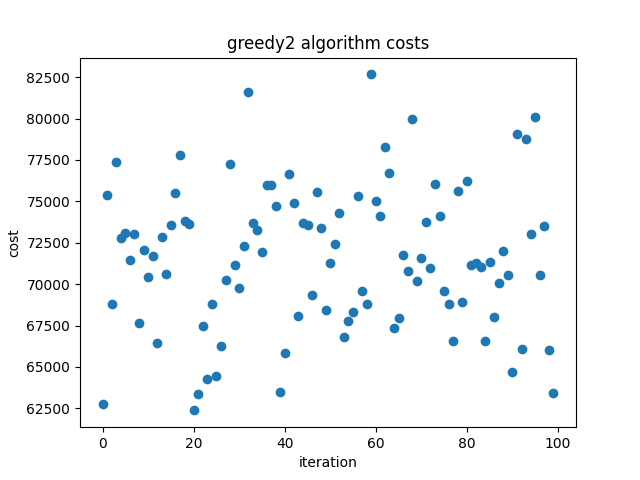
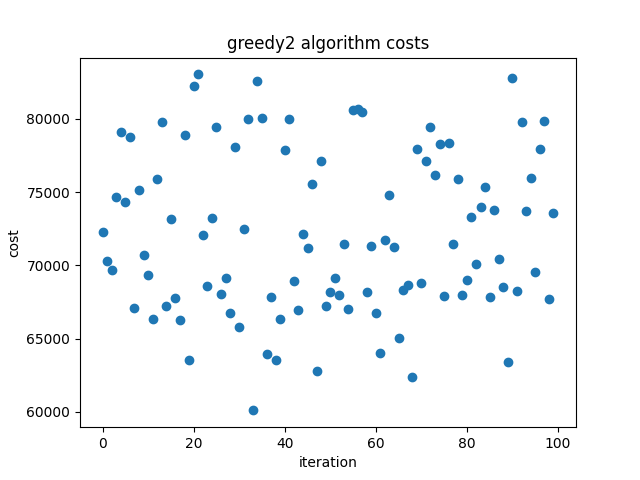
fixed vis

diff --git a/main.py b/main.py
@@ -8,8 +8,8 @@ import pickle
 import copy
 
 if __name__ == "__main__":
-    district_number = "3"
-    greedy_version = 1
+    district_number = "1"
+    greedy_version = 2
 
     battery_file = (f"data/Huizen&Batterijen/district_{district_number}/district-{district_number}_batteries.csv")
     #battery_file = (f"SmartGrid/data/Huizen&Batterijen/district_{district_number}/district-{district_number}_batteries.csv")
@@ -81,8 +81,6 @@ if __name__ == "__main__":
         print(count)
         best_grid = best_greedy.grid
         visualise_costs.visualise_costs(greedy1_costs, "greedy1")
-        # for battery in best_greedy.grid.batteries.values():
-        #     print('battery:', battery.id, battery.get_cum_output(), battery.capacity_left())
         # file_name = f"SmartGrid/data/solutions/best_greedy.pickle"
 
         # with open(file_name, 'wb') as handle:
@@ -90,48 +88,48 @@ if __name__ == "__main__":
 
     # --------------------------- greedy 2 --------------------------
     if greedy_version == 2:
+
         print('Running Greedy version 2..')
         greedy2_costs = list()
-        count = 0
         best_cost = 70000
+
         for i in range(100):
             greedy2 = greedy.Greedy(grid1)
             greedy2.run_greedy()
-            # fixed_greedy = fix_greedy.Fix_greedy(greedy2.grid)
-            # fixed_greedy.run3()
+            
             if greedy2.grid.is_valid():
-                count += 1
                 if greedy2.grid.calc_cost() < best_cost:
                     best_grid = greedy2.grid
                     best_cost = greedy2.grid.calc_cost()
             greedy2_costs.append(greedy2.grid.calc_cost())
-        print(count)
-        print(best_cost)
-        # # for battery in best_grid.batteries.values():
-        # #     print('battery:', battery.id, battery.get_cum_output(), battery.capacity_left())
-        # #     if battery.id == 1:
-        # #         for house in battery.houses.values():
-        # #             print(house.cable.x, house.cable.y)
+
+        print('Price cheapest valid Greedy:', best_cost)
         visualise_costs.visualise_costs(greedy2_costs, "greedy2")
+
+        # file_name = f"SmartGrid/data/solutions/best_greedy2.pickle"
+
+        # with open(file_name, 'wb') as handle:
+        #     pickle.dump(best_greedy, handle)
 
     # --------------------------- visualisation --------------------------
     visualise_cables.visualise_apart(best_grid, district_number)
     visualise_cables.visualise(best_grid, district_number)
+    # visualise_cables.visualise_house_apart(best_grid, district_number)
 
         # --------------------------- greedy - each house to closest battery--------------------------
-    # greedy3_costs = list()
-    # count = 0
-    # for i in range(100):
-    #     greedy3 = cheapest_greedy.Greedy_cheapest(grid1)
-    #     greedy3.run_greedy()
-    #     # fixed_greedy = fix_greedy.Fix_greedy(greedy2.grid)
-    #     # fixed_greedy.run3()
-    #     if greedy3.grid.is_valid():
-    #          print("hurray")
-    #          count += 1
-    #     greedy3_costs.append(greedy3.grid.calc_cost())
-    # print(count)
-    # visualise_costs.visualise_costs(greedy2_costs, "greedy2")
+    if greedy_version == 3:
+
+        greedy3_costs = list()
+
+        for i in range(100):
+            greedy3 = cheapest_greedy.Greedy_cheapest(grid1)
+            greedy3.run_greedy()
+            if greedy3.grid.is_valid():
+                print("hurray")
+
+            greedy3_costs.append(greedy3.grid.calc_cost())
+
+        visualise_costs.visualise_costs(greedy3_costs, "greedy3")
 
 
     # greedy2 = greedy.Greedy(empty_grid)

diff --git a/code/visualisations/visualise_cables.py b/code/visualisations/visualise_cables.py
@@ -100,5 +100,57 @@ def visualise_apart(grid, district_number):
 
         # plt.legend()
         plt.show()
-        plt.savefig(f"docs/cable_visualisation{battery.id}.png")
+        plt.savefig(f"docs/cable_visualisation_battery{battery.id}.png")
+
+
+def visualise_house_apart(grid, district_number):
+    """
+    Visualise the connections of each house connected to battery 0 in separate grids
+    """
+    battery = grid.batteries[0]
+    for house in battery.houses.values():
+        if house.id < 30:
+
+            district_number = district_number
+            # Load house files
+            house_file = (f"data/Huizen&Batterijen/district_{district_number}/district-{district_number}_houses.csv")
+            dfhouses = pd.read_csv(house_file)
+            dfhouses.plot(kind='scatter', x='x', y='y')
+
+            # Clear the figure
+            plt.clf()
+
+            # Plot gridlines
+            plt.title(f'SmartGrid house {house.id}')
+            plt.grid(which='minor', color='lightgrey')
+            plt.grid(which='major', color='grey')
+            plt.minorticks_on()
+
+            # Plot each house and battery in the grid
+            plt.scatter(battery.x, battery.y, color='orange', label = "Batteries")
+            plt.scatter(dfhouses.x, dfhouses.y, color='blue', label = "Houses")
+
+            # Give the connections of each battery a different colour
+            if battery.id == 0:
+                gridcolor = "blue"
+            elif battery.id == 1: 
+                gridcolor = "red"
+            elif battery.id == 2: 
+                gridcolor = "orange"
+            elif battery.id == 3: 
+                gridcolor = "black"
+            elif battery.id == 4: 
+                gridcolor = "gray"
+
+            # Plot cables 
+
+            plt.scatter(house.x, house.y, color="pink")
+            plt.plot(house.cable.x, house.cable.y, color=gridcolor, linestyle="-")
+
+            # plt.legend()
+            plt.show()
+            plt.savefig(f"docs/cable_visualisation_house{house.id}.png")
+            print(house.id, 'coordinates', house.x, house.y)
+            print(battery.id, 'coordinates', battery.x, battery.y)
+            print(house.id, 'cable', house.cable.x, house.cable.y)
     

diff --git a/code/algorithms/greedy.py b/code/algorithms/greedy.py
@@ -90,18 +90,20 @@ class Greedy:
 
         # If battery capacity is full, reconnect houses with the shortest distance to the next battery
         for i in range(100):
-
             self.replace_connections()
             
         # Start laying cables
-        for house in self.grid.houses.values():
-            closest_battery_id = house.battery_distances[house.rank][0]
-            closest_battery = self.grid.batteries[closest_battery_id]
-            house.battery = closest_battery_id
+        for battery in self.grid.batteries.values():
+            for house in battery.houses.values():
+        # for house in self.grid.houses.values():
+        #     closest_battery_id = house.battery_distances[house.rank][0]
+        #     closest_battery = self.grid.batteries[closest_battery_id]
+                # house.battery = closest_battery_id
+                house.battery = battery
 
-            cable1 = cable.Cable(house = house, battery = closest_battery)
-            cable1.lay_cable()
-            house.add_cable(cable1)
+                cable1 = cable.Cable(house = house, battery = battery)
+                cable1.lay_cable()
+                house.add_cable(cable1)
             
         # for battery in self.grid.batteries.values():
         #         print(battery.get_cum_output())
